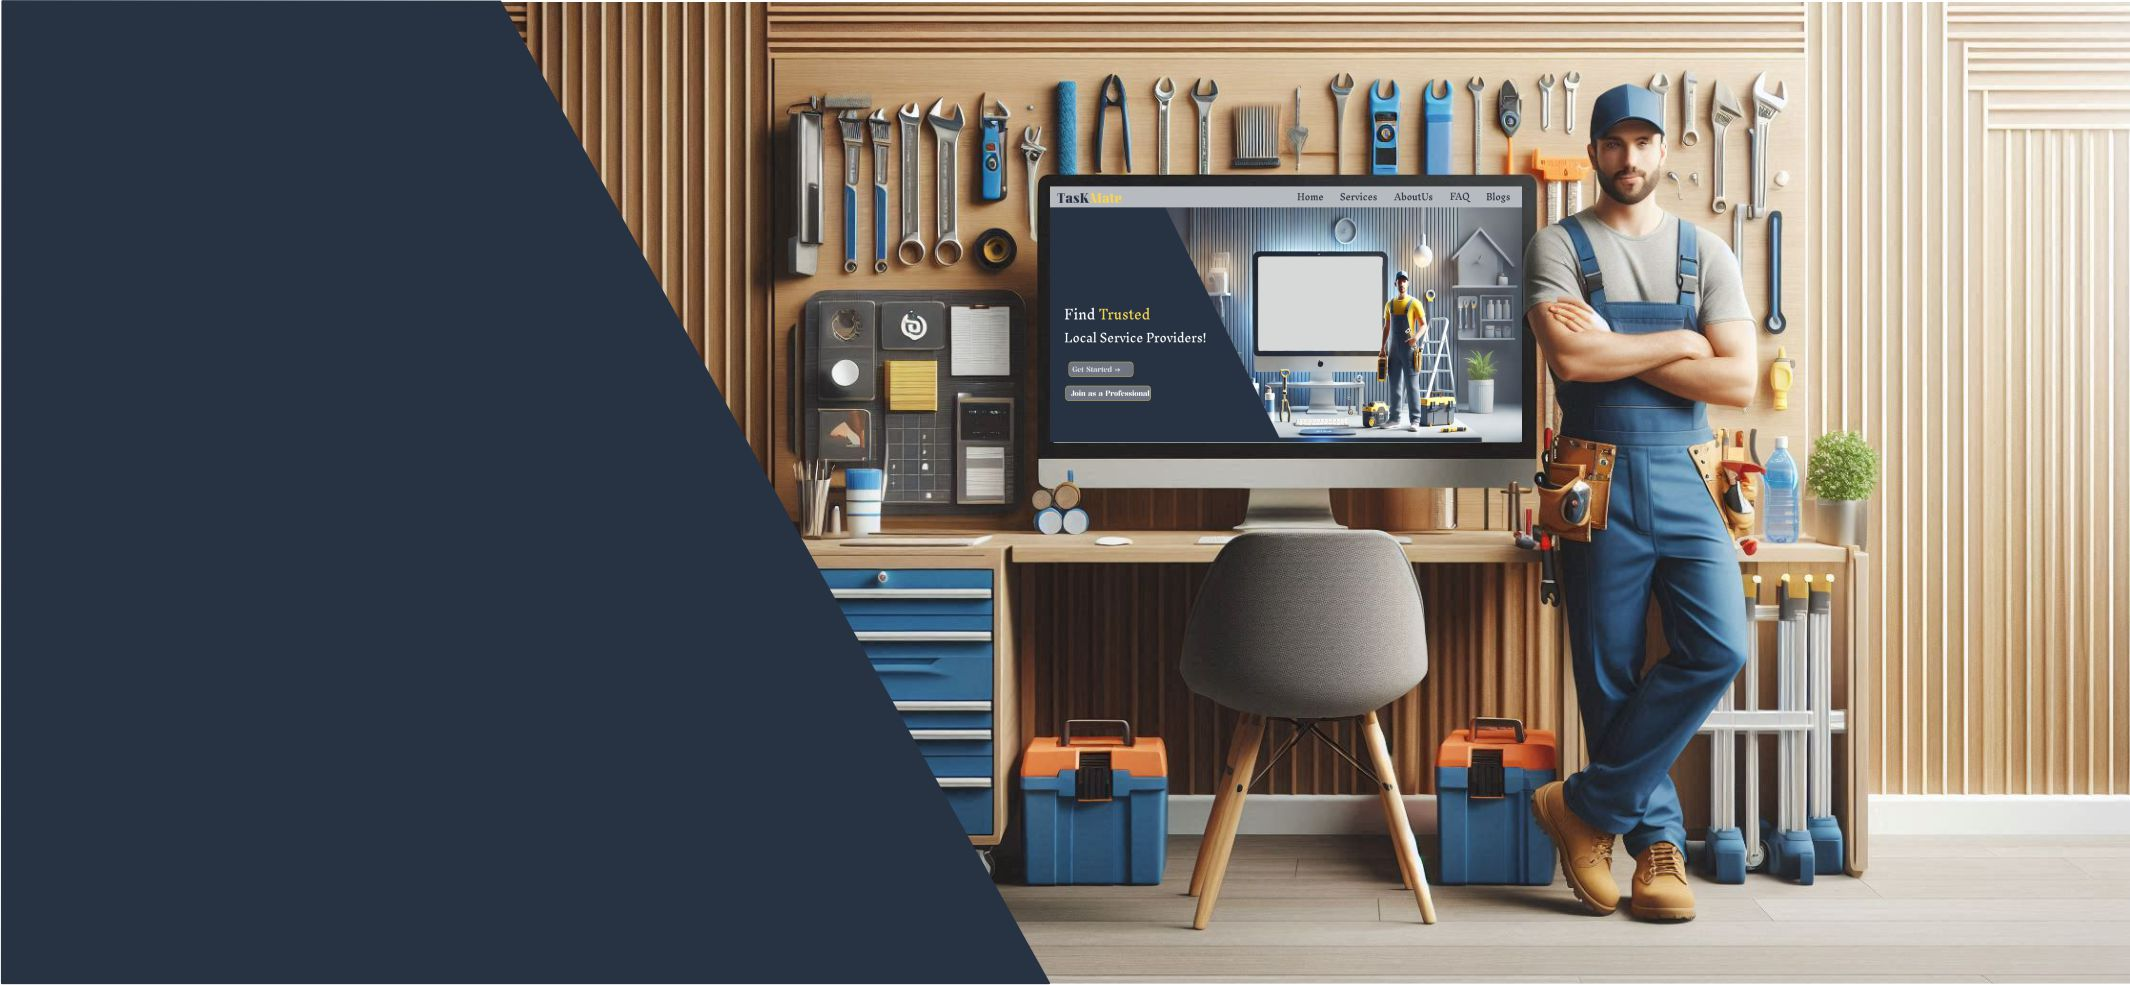
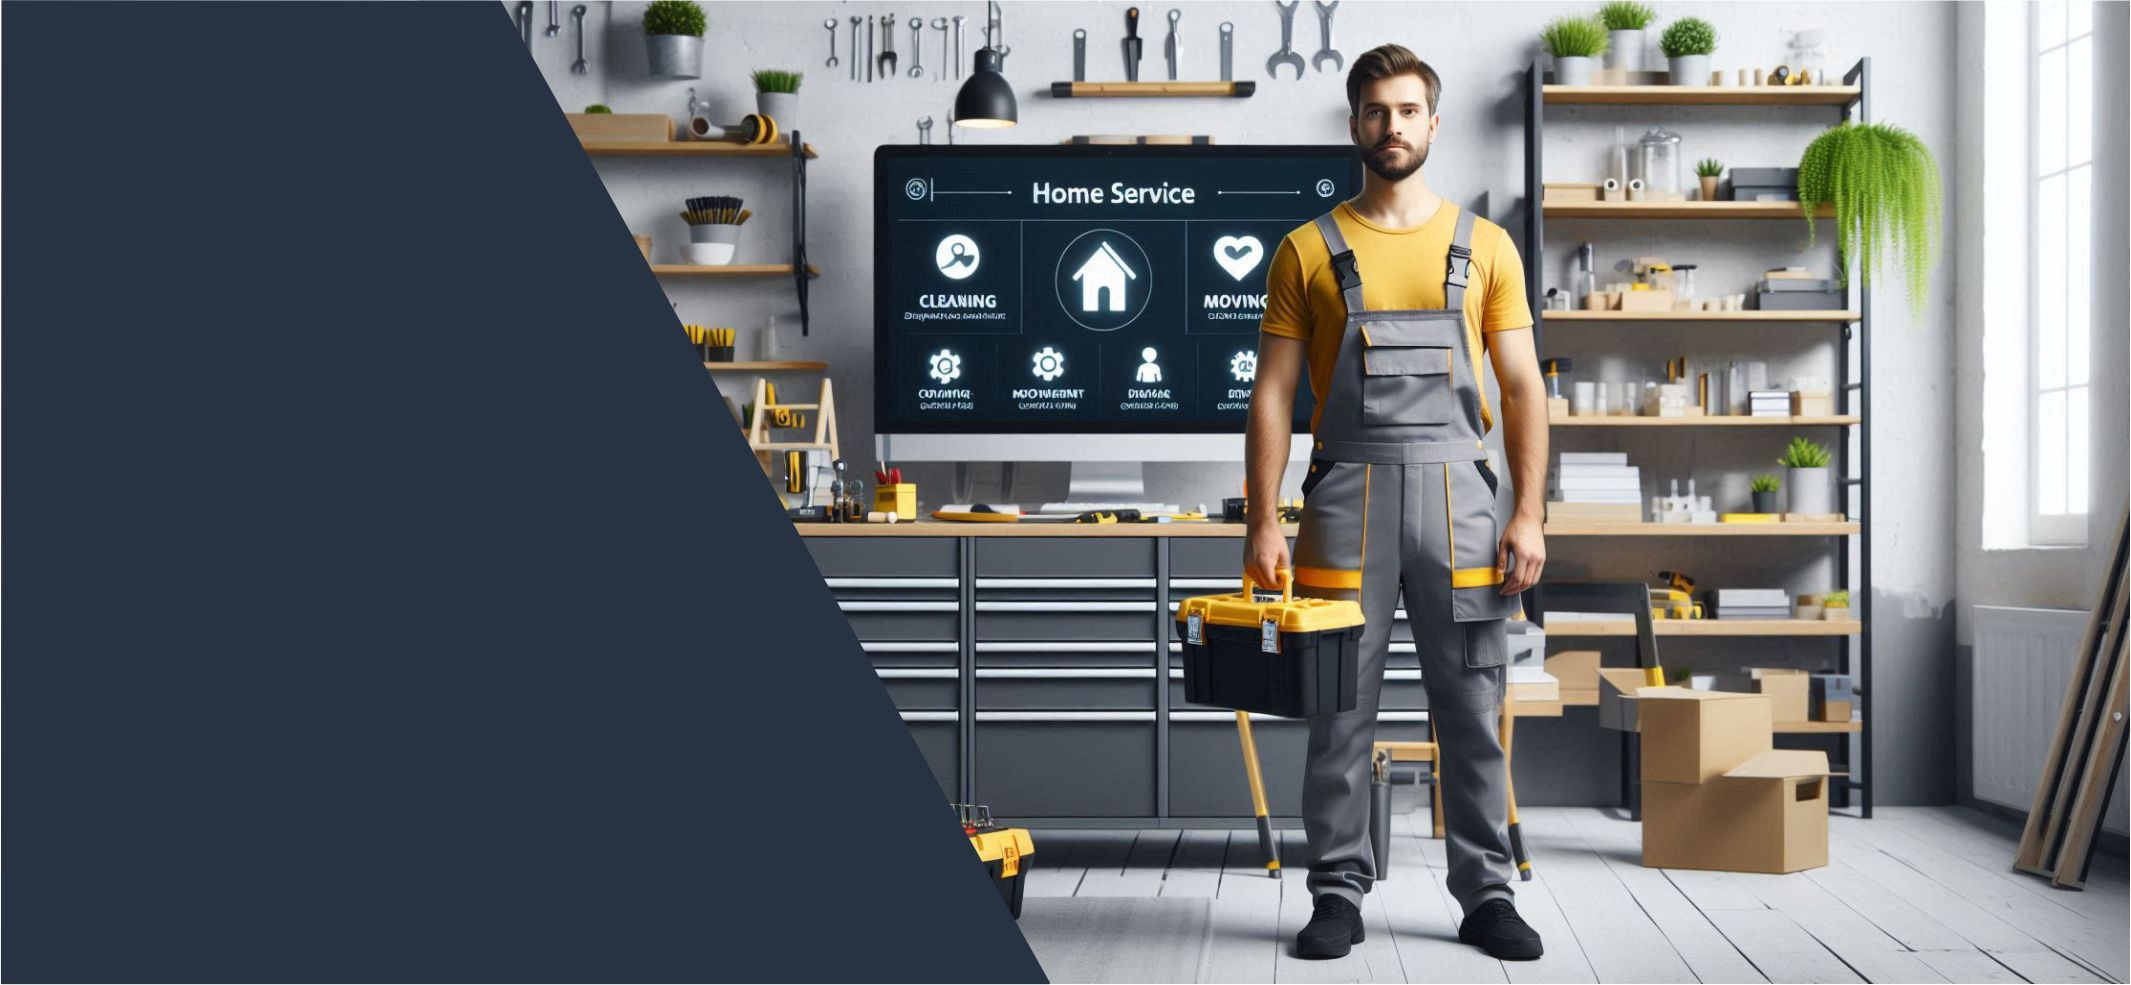
add blogs and hero image

diff --git a/src/components/Blogs.jsx b/src/components/Blogs.jsx
@@ -1,7 +1,78 @@
-import React from "react";
+import React, { useEffect, useState } from "react";
+import axios from "axios";
 
 const Blogs = () => {
-  return <div></div>;
+  const [articles, setArticles] = useState([]);
+
+  // Replace with your own NewsAPI key
+  const API_KEY = "f81fcab4de3440adbe03fe5d25741c93";
+  const API_URL = `https://newsapi.org/v2/everything?q=home%20cleaning%20OR%20cleaning%20tips%20OR%20housekeeping%20OR%20home%20maintenance&apiKey=${API_KEY}`;
+
+  useEffect(() => {
+    // Fetching blog articles from NewsAPI
+    axios
+      .get(API_URL)
+      .then((response) => {
+        setArticles(response.data.articles);
+      })
+      .catch((error) => {
+        console.error("Error fetching the articles:", error);
+      });
+  }, []);
+
+  return (
+    <div className="blog-container" style={styles.blogContainer}>
+      <h2>Latest Home Improvement Blogs</h2>
+      <div className="blog-cards" style={styles.cardContainer}>
+        {articles.map((article, index) => (
+          <div key={index} className="card" style={styles.card}>
+            <img
+              src={article.urlToImage}
+              alt={article.title}
+              style={styles.image}
+            />
+            <div className="card-content" style={styles.cardContent}>
+              <h3>{article.title}</h3>
+              <p>{article.description}</p>
+              <a href={article.url} target="_blank" rel="noopener noreferrer">
+                Read More
+              </a>
+            </div>
+          </div>
+        ))}
+      </div>
+    </div>
+  );
+};
+
+// Simple styling for the blog cards
+const styles = {
+  blogContainer: {
+    padding: "20px",
+    fontFamily: "Arial, sans-serif",
+  },
+  cardContainer: {
+    display: "flex",
+    flexWrap: "wrap",
+    gap: "20px",
+    justifyContent: "center",
+  },
+  card: {
+    width: "300px",
+    border: "1px solid #ddd",
+    borderRadius: "8px",
+    overflow: "hidden",
+    boxShadow: "0 4px 8px rgba(0, 0, 0, 0.1)",
+    transition: "transform 0.3s",
+  },
+  cardContent: {
+    padding: "15px",
+  },
+  image: {
+    width: "100%",
+    height: "200px",
+    objectFit: "cover",
+  },
 };
 
 export default Blogs;

diff --git a/src/components/Hero.jsx b/src/components/Hero.jsx
@@ -1,5 +1,5 @@
 import { useNavigate } from "react-router-dom";
-import hero_background from "../assets/images/hero_background.png";
+import hero_background from "../assets/images/landingpagebg.jpg";
 import buttonArrow from "../assets/images/buttonArrow.png";
 
 const Hero = () => {
